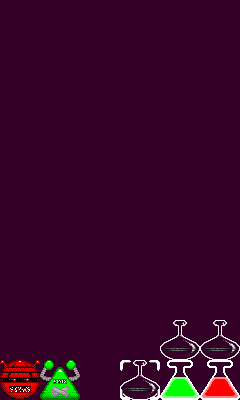
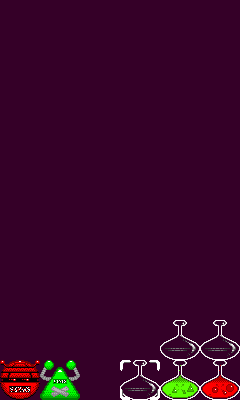
bug fixed: was not bug with breaking potions, but with brewing potions and setting the proper animation defaults

Changed region(s): [[0.6708, 0.9, 1.0, 1.0]]

diff --git a/engine.html b/engine.html
@@ -3237,7 +3237,11 @@ $def with (name)
                 console.log("sleepcounter = " + this.sleepcounter)
 
                 // update sprite data
-                this.sprite = new jaws.Sprite({x:this.stack.board.posx(above.x),y:this.stack.board.posy(above.y - 1), image:"./static/images/POTION_" + COLORS[above.color] + ".gif",anchor:"left"})
+                this.sprite = new jaws.Sprite({x:this.stack.board.posx(x),y:this.stack.board.posy(y), anchor:"left"})
+                var anim = new jaws.Animation({sprite_sheet: "./static/images/POTION_" + COLORS[this.color] + ".gif", frame_size: [40,40], frame_duration: 100})
+                this.sprite.anim_default = anim.slice(0,5)
+                this.sprite.setImage(this.sprite.anim_default.next())
+
                 this.sprite.dx = this.stack.board.posx(above.x)
                 this.sprite.dy = this.stack.board.posy(above.y - 1)
 
